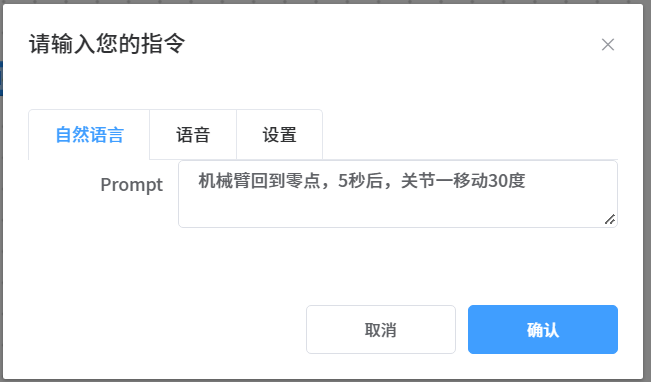
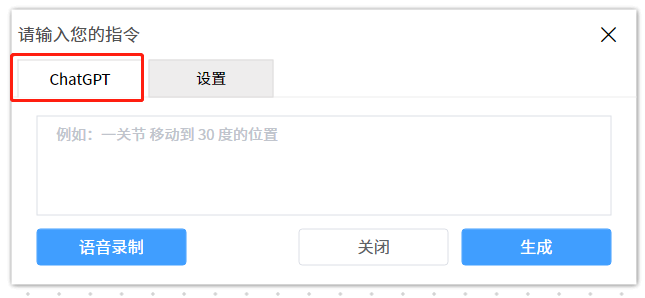
update - 5-chatgpt 章节更新

Changed region(s): [[0.0, 0.0, 1.0, 1.0], [0.5581, 0.7852, 0.6202, 0.906], [0.062, 0.2416, 0.186, 0.302]]

diff --git a/5-BasicApplication/5.2-ApplicationUse/5.2.1-myStudio/1-myblockly/5-chatGPT.md b/5-BasicApplication/5.2-ApplicationUse/5.2.1-myStudio/1-myblockly/5-chatGPT.md
@@ -25,10 +25,12 @@
 - 点击设置，输入您的 API Key，点击保存
 
   <img src="..\..\..\..\resources\5-BasicApplication\5.2-ApplicationUse\5.2.1-mystudio\1-myblockly\images\5\2.png" />
-
-
-
+  
   <img src="..\..\..\..\resources\5-BasicApplication\5.2-ApplicationUse\5.2.1-mystudio\1-myblockly\images\5\3.png" />
+
+
+
+  
 
 
 
@@ -38,50 +40,63 @@
 
 
 
-- 点击自然语言，尝试输入指令：机械臂回到零点，5秒后，关节一 移动到30度的位置。
+- 点击`ChatGPT`，尝试输入指令：关节一 移动到30度的位置。
 
   <img src="..\..\..\..\resources\5-BasicApplication\5.2-ApplicationUse\5.2.1-mystudio\1-myblockly\images\5\4.png" />
 
-
-
-- 等待生成积木块
-
   <img src="..\..\..\..\resources\5-BasicApplication\5.2-ApplicationUse\5.2.1-mystudio\1-myblockly\images\5\5.png" />
 
-- 生成完毕
 
 
+- 点击`生成` 按钮
 
-  <img src="..\..\..\..\resources\5-BasicApplication\5.2-ApplicationUse\5.2.1-mystudio\1-myblockly\images\5\6.png" />
+  <img src="..\..\..\..\resources\5-BasicApplication\5.2-ApplicationUse\5.2.1-mystudio\1-myblockly\images\5\generate_btn.png" />
 
+  等待ChatGPT响应
 
-
-
-
-
-
-
-
-#### 使用语音指令
-
-- 点击语音
-
-  <img src="..\..\..\..\resources\5-BasicApplication\5.2-ApplicationUse\5.2.1-mystudio\1-myblockly\images\5\7.png" />
+  <img src="..\..\..\..\resources\5-BasicApplication\5.2-ApplicationUse\5.2.1-mystudio\1-myblockly\images\5\waiting_generate.png" />
 
 
 
 
 
-- 点击开始录制（这个操作需要操作系统给予麦克风权限）
+- 代码生成完毕
 
-- 尝试说出指令：机械臂回零，关节一移动到 30度的位置
+  <img src='..\..\..\..\resources\5-BasicApplication\5.2-ApplicationUse\5.2.1-mystudio\1-myblockly\images\5\generate_success.png'/>
 
-- 点击结束录制
 
-  查看录制结果输出
 
-- 点击确认
-- 等待积木块生成
+
+
+#### 如果您不想输入文本，可以使用我们的语音识别功能
+
+
+
+- 单击`语音录制`按钮（需要系统的麦克风权限）。
+
+  <img src="..\..\..\..\resources\5-BasicApplication\5.2-ApplicationUse\5.2.1-mystudio\1-myblockly\images\5\record_btn.png" />
+  
+  语音录制中！现在可以说出指令（例如：将关节1移动到30度的位置）
+  
+  <img src="..\..\..\..\resources\5-BasicApplication\5.2-ApplicationUse\5.2.1-mystudio\1-myblockly\images\5\recording.png" />
+  
+  
+
+- 说完指令后，单击`结束录制`按钮，等待chatGPT的响应。
+
+  <img src="..\..\..\..\resources\5-BasicApplication\5.2-ApplicationUse\5.2.1-mystudio\1-myblockly\images\5\waiting_record_response.png" />
+
+    语音识别成功，从chatGPT获取了响应。
+
+  <img src="..\..\..\..\resources\5-BasicApplication\5.2-ApplicationUse\5.2.1-mystudio\1-myblockly\images\5\record_response.png" />
+
+
+
+- 现在可以点击`生成` 按钮生成代码了
+
+
+
+
 
 
 
